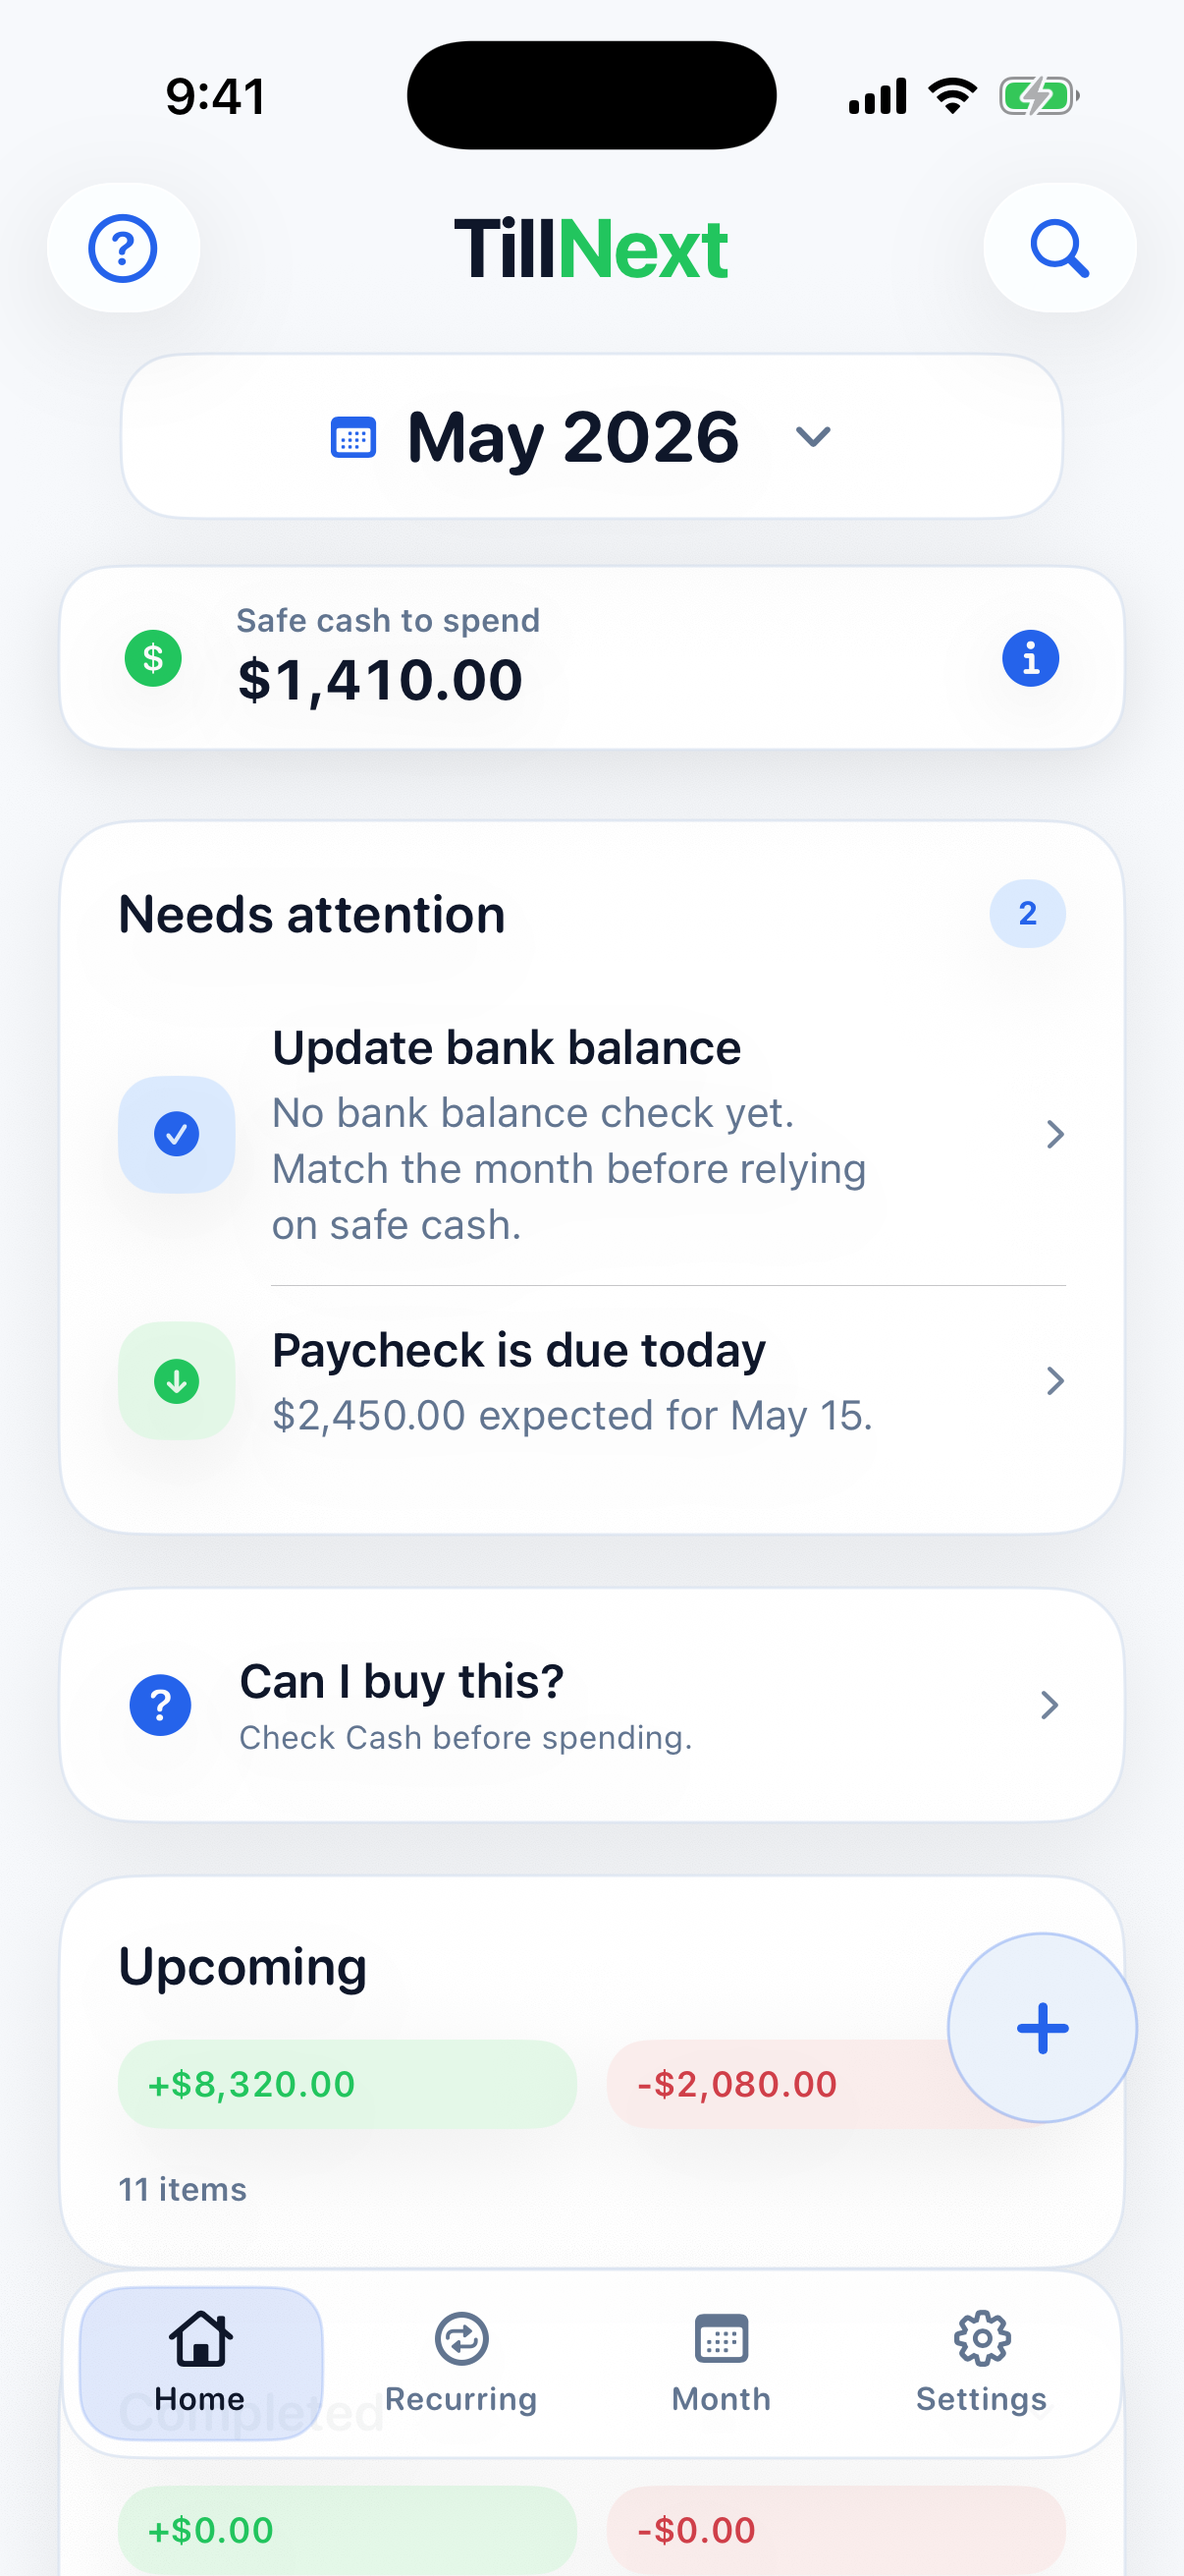
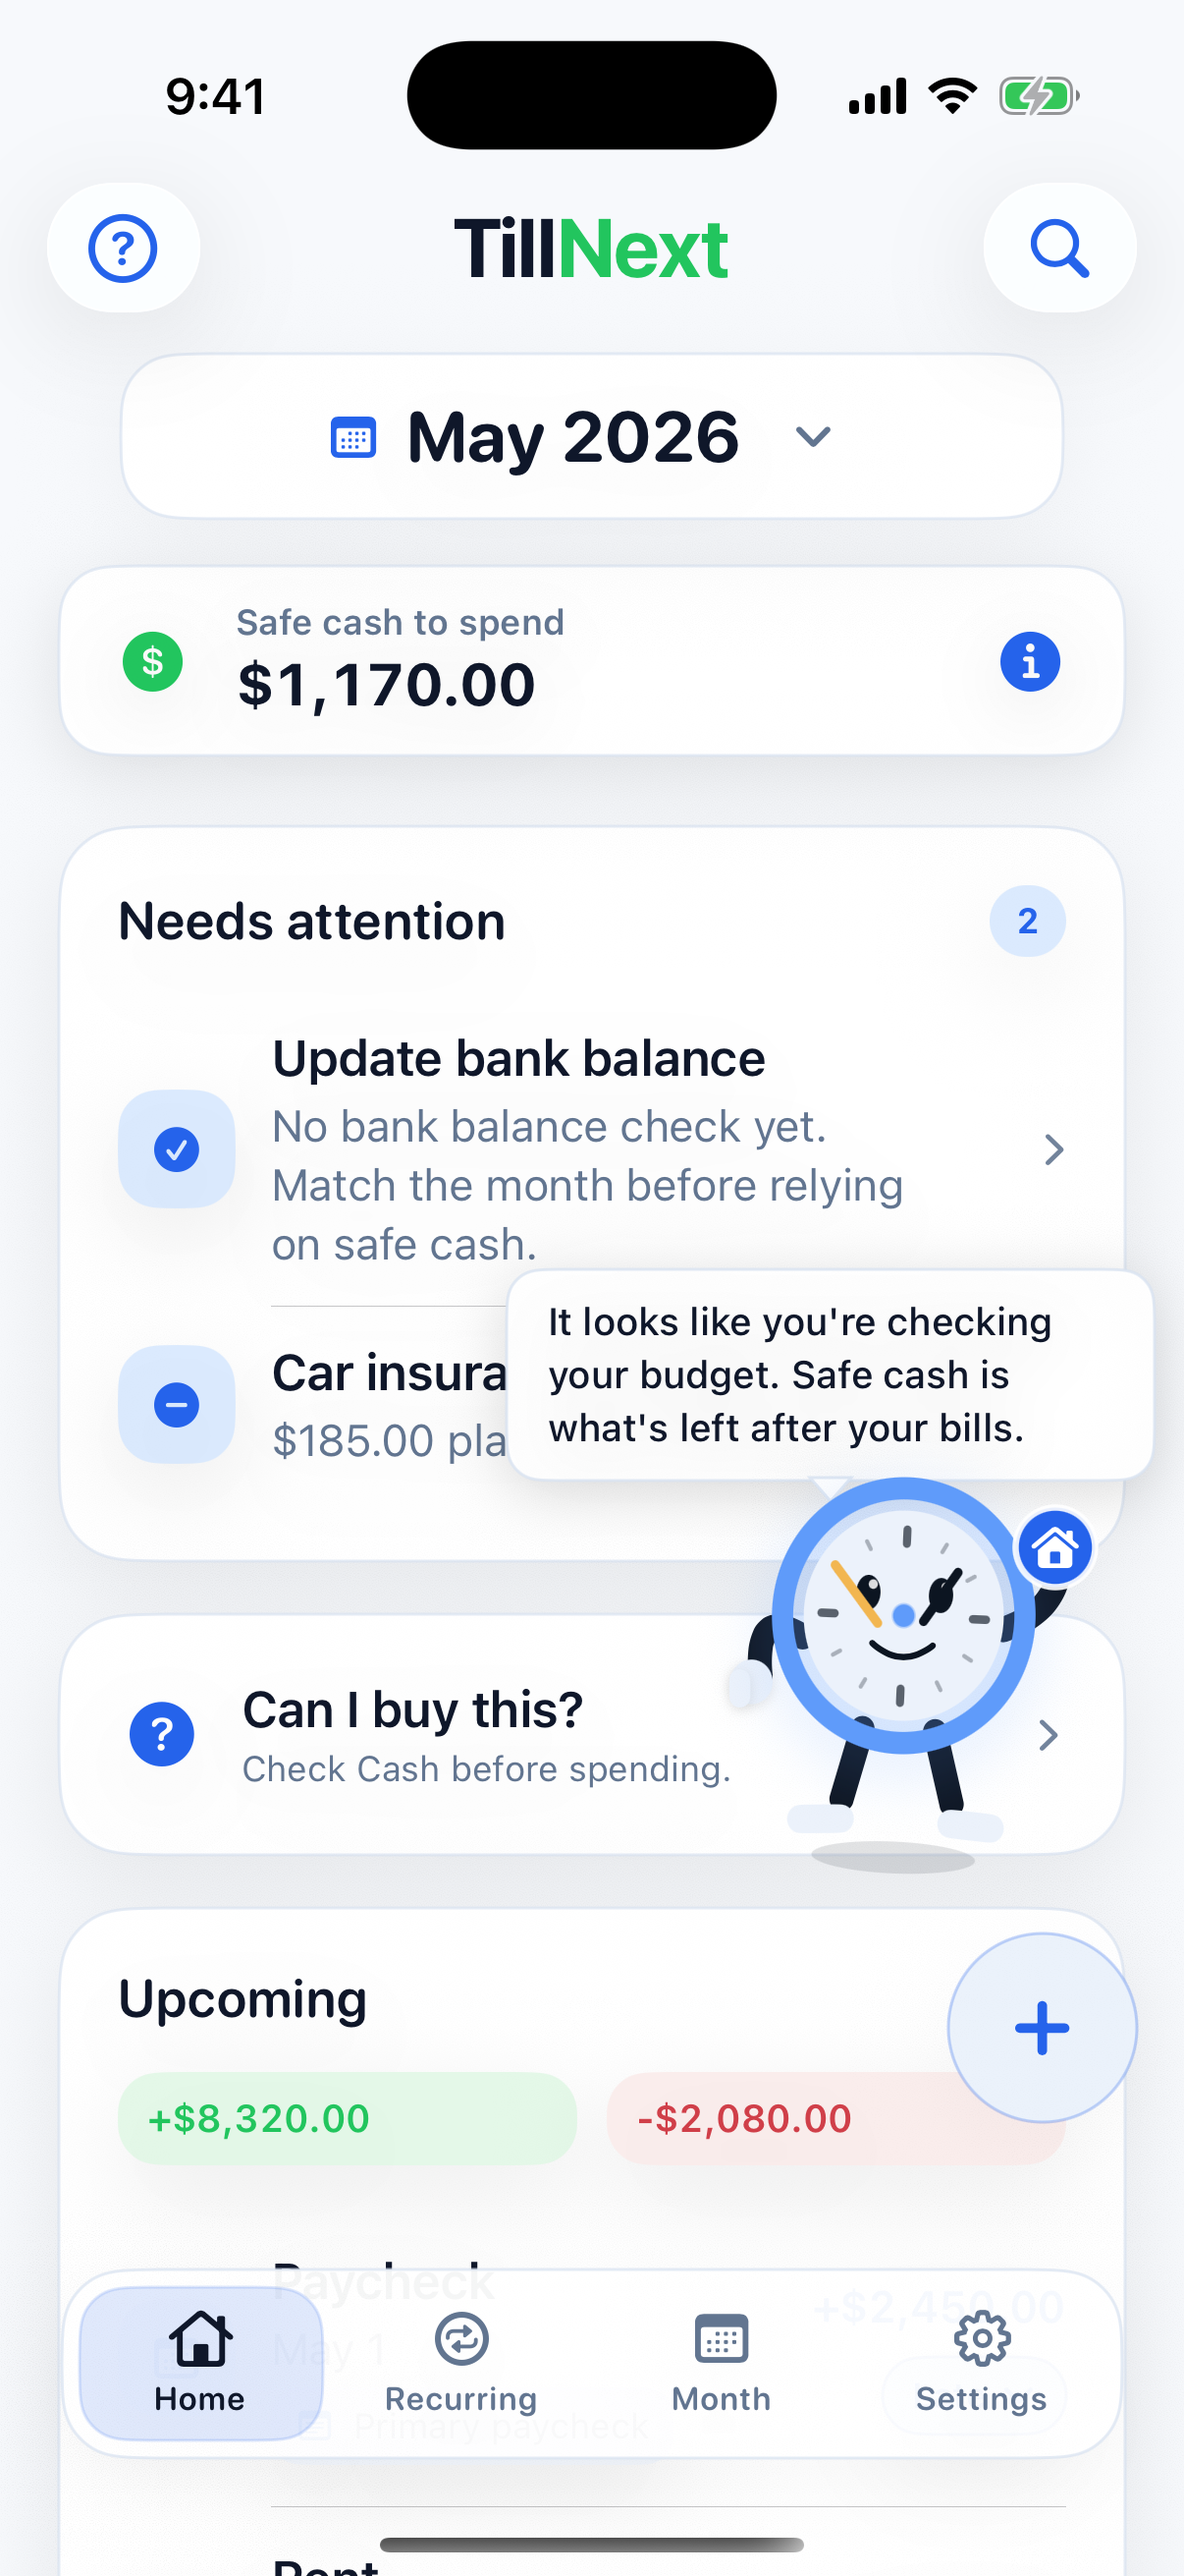
Add Tilly section, update help screenshots, refresh footer dates

diff --git a/help/index.html b/help/index.html
@@ -85,8 +85,16 @@
         <li>Review Terms &amp; Privacy from the small footer link.</li>
       </ul>
 
+      <h2>Use The Tilly Companion</h2>
+      <p>Tilly is an optional draggable clock character that lives on your Home screen and can be tapped for gentle planning hints. Enable or disable Tilly in Settings under Display.</p>
+      <ul>
+        <li>Drag Tilly anywhere on the Home screen to reposition it.</li>
+        <li>Tap Tilly to get a planning nudge relevant to the tab you have open.</li>
+        <li>Tilly is off by default — turn it on in Settings &rarr; Display &rarr; Tilly companion.</li>
+      </ul>
+
       <h2>Use Home Screen Widgets</h2>
-      <p>TillNext widgets show the same Till Next amount as Home. Quick-add widgets include buttons for one-time income and expenses, and the large widget shows the next few Home items.</p>
+      <p>TillNext offers two widget styles. The standard TillNext widget shows the Till Next amount with quick-add buttons for income and expenses. The Tilly widget shows the same balance alongside Tilly's full character in small and medium sizes.</p>
       <div class="example-grid">
         <figure>
           <picture>
@@ -162,7 +170,7 @@
       <p>You can review the <a href="../terms-of-use/">Terms of Use</a> and <a href="../privacy-policy/">Privacy Policy</a> on this site or from Settings in TillNext.</p>
 
       <footer>
-        <span>Last updated: May 3, 2026</span>
+        <span>Last updated: May 30, 2026</span>
       </footer>
     </main>
   </body>

diff --git a/index.html b/index.html
@@ -151,7 +151,7 @@
       </section>
 
       <footer>
-        <span>Last updated: May 15, 2026</span>
+        <span>Last updated: May 30, 2026</span>
         <span>Support email: <a href="mailto:support@tillnext.app">support@tillnext.app</a></span>
       </footer>
     </main>
